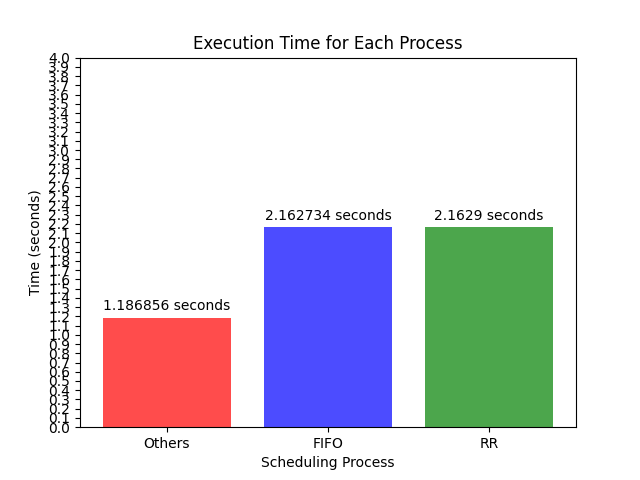
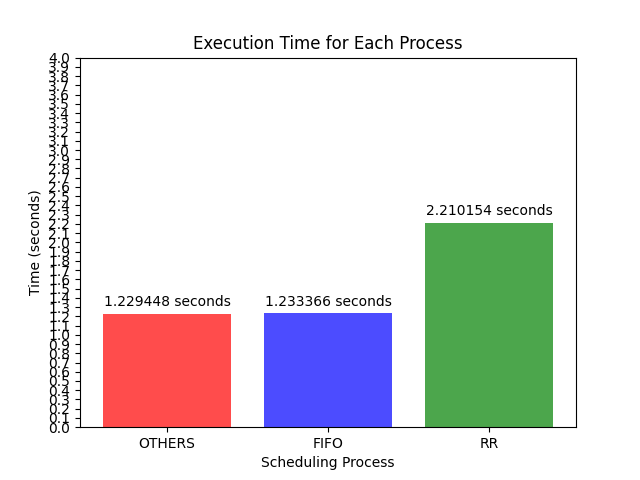
FORMATTING

diff --git a/OS Assignment 2/Question 2/1.c b/OS Assignment 2/Question 2/1.c
@@ -56,7 +56,11 @@ int main ()
         execution_time1 = (end_time1.tv_sec - start_time1.tv_sec) + (double)(end_time1.tv_nsec - start_time1.tv_nsec)/1e9;
         executionTimes[SCHED_OTHER] = execution_time1;
         fprintf(file, "%d %lf\n", SCHED_OTHER, executionTimes[SCHED_OTHER]); // Printing output in output.txt
-        printf("OTHER time : %lf\n", execution_time1);
+        printf("Starting time of OTHER : %lf\n", start_time1.tv_sec + (double)(start_time1.tv_nsec/1e9));
+        printf("Ending time of OTHER : %lf\n", end_time1.tv_sec + (double)(end_time1.tv_nsec/1e9));
+        printf("\033[1;31m");
+        printf("Time of execution of OTHER : %lf\n\n", execution_time1);
+        printf("\033[0;0m"); 
 
     }
     else if (pid1<0){
@@ -91,7 +95,11 @@ int main ()
             execution_time2 = (end_time2.tv_sec - start_time2.tv_sec) + (double)(end_time2.tv_nsec - start_time2.tv_nsec)/1e9;
             executionTimes[SCHED_RR] = execution_time2;
             fprintf(file, "%d %lf\n", SCHED_RR, executionTimes[SCHED_RR]); // Printing output in output.txt
-            printf("RR time : %lf\n", execution_time2);
+            printf("Starting time of RR : %lf\n", start_time2.tv_sec + (double)(start_time2.tv_nsec/1e9));
+            printf("Ending time of RR : %lf\n", end_time2.tv_sec + (double)(end_time2.tv_nsec/1e9));
+            printf("\033[1;32m");
+            printf("Time of execution of RR : %lf\n\n", execution_time2);
+            printf("\033[0;0m"); 
 
         }
         else if (pid2<0){
@@ -127,7 +135,11 @@ int main ()
                 execution_time3 = (end_time3.tv_sec - start_time3.tv_sec) + (double)(end_time3.tv_nsec - start_time3.tv_nsec)/1e9;
                 executionTimes[SCHED_FIFO] = execution_time3;
                 fprintf(file, "%d %lf\n", SCHED_FIFO, executionTimes[SCHED_FIFO]); // Printing output in output.txt
-                printf("FIFO time : %lf\n", execution_time3);
+                printf("Starting time of FIFO : %lf\n", start_time3.tv_sec + (double)(start_time3.tv_nsec/1e9));
+                printf("Ending time of FIFO : %lf\n", end_time3.tv_sec + (double)(end_time3.tv_nsec/1e9));
+                printf("\033[1;34m");
+                printf("Time of execution of FIFO : %lf\n\n", execution_time3);
+                printf("\033[0;0m"); 
             }
             else if (pid3<0){
                 perror("Process 3 Failed");

diff --git a/OS Assignment 2/Question 2/graph.py b/OS Assignment 2/Question 2/graph.py
@@ -4,8 +4,11 @@ import matplotlib.pyplot as plt
 indices = []
 times = []
 colors = ['red', 'blue', 'green']
-intSched = ['Others', 'FIFO', 'RR']
+intSched = ['OTHERS', 'FIFO', 'RR']
 temp_index = [0, 1, 2]
+#RED FOR OTHERS
+# BLUE FOR FIFO
+# GREEN FOR RR
 
 # Read data from the input file
 with open('output.txt', 'r') as file:
